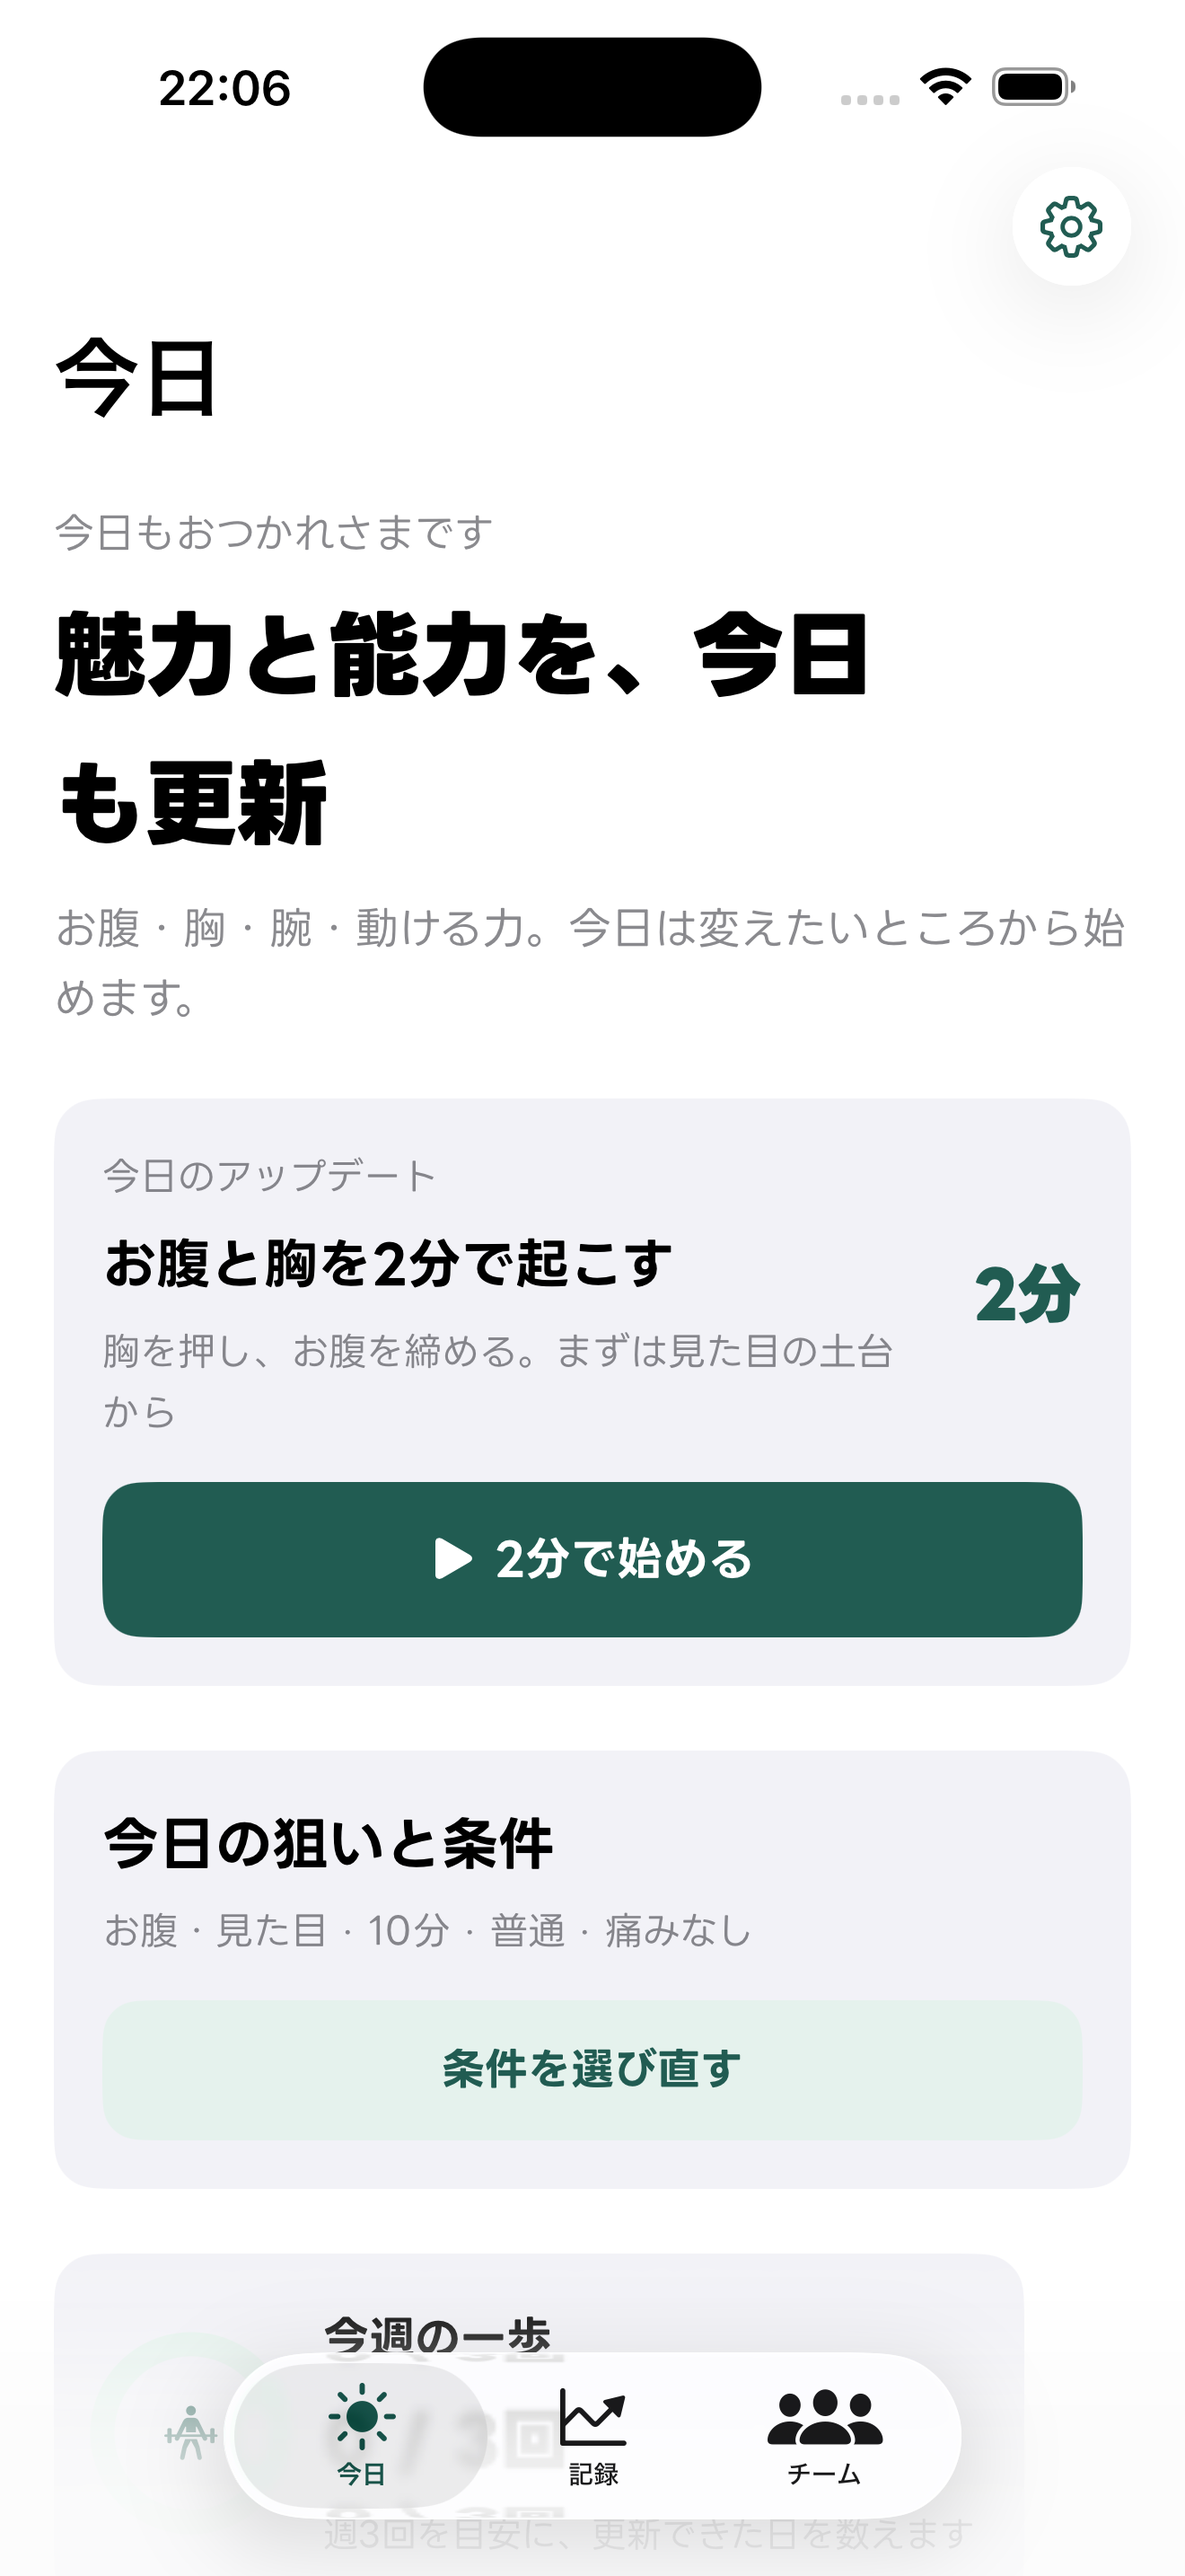
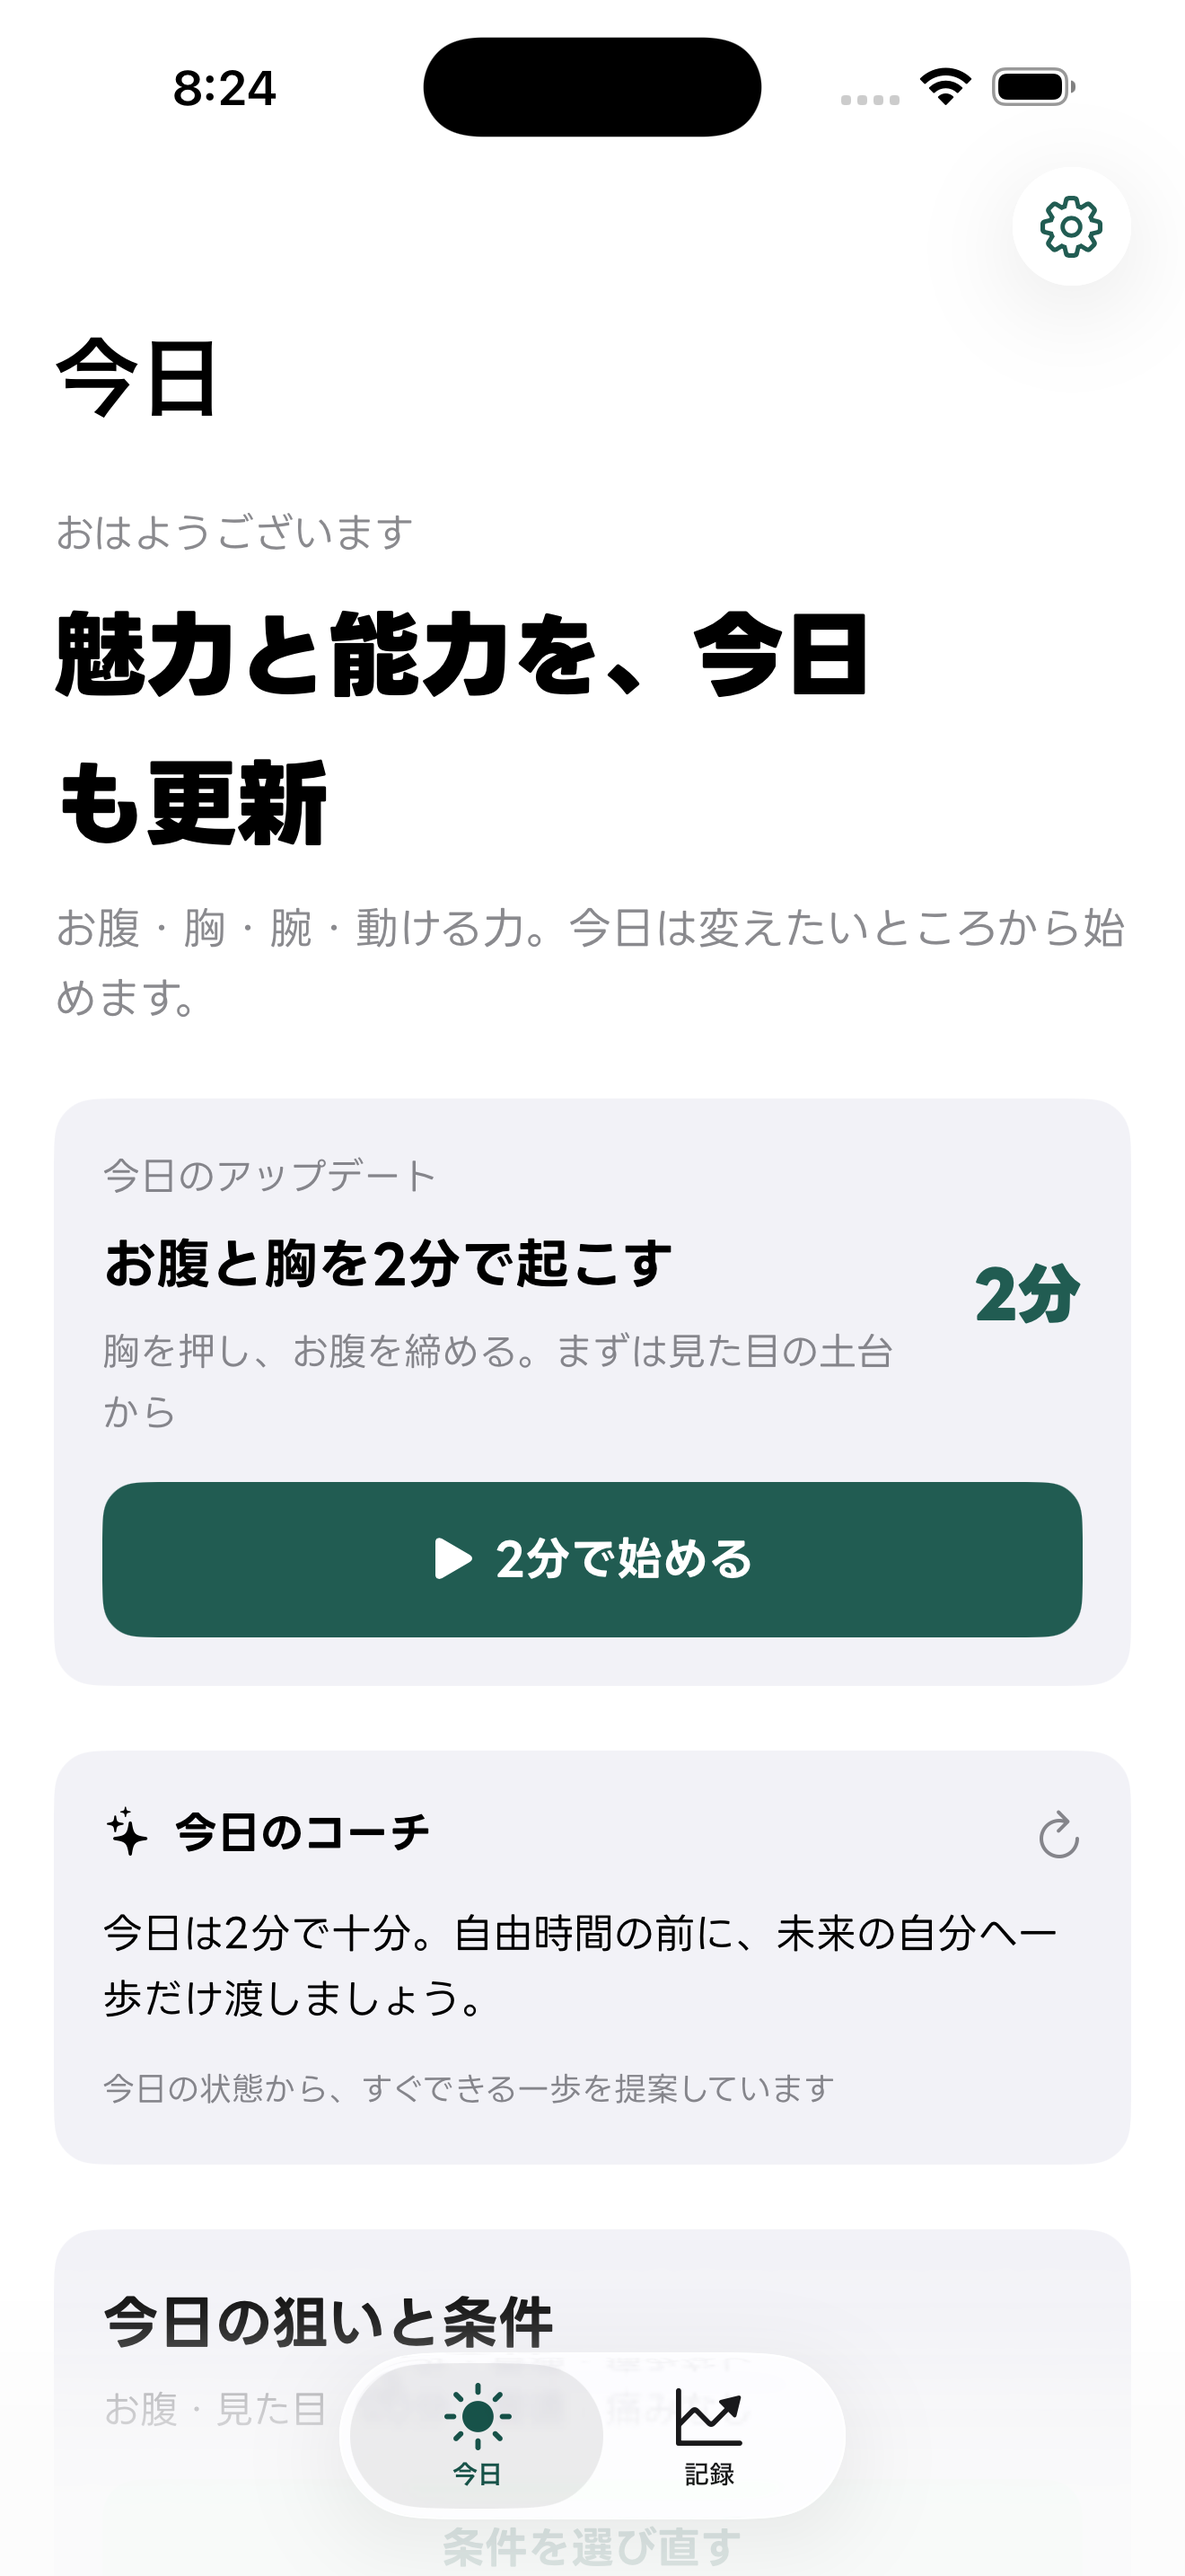
Prepare App Store release candidate

diff --git a/FutureBody/Views/RootView.swift b/FutureBody/Views/RootView.swift
@@ -17,12 +17,6 @@ struct RootView: View {
                 Label("記録", systemImage: "chart.line.uptrend.xyaxis")
             }
 
-            NavigationStack {
-                TeamView()
-            }
-            .tabItem {
-                Label("チーム", systemImage: "person.3")
-            }
         }
     }
 }

diff --git a/Scripts/generate_project.rb b/Scripts/generate_project.rb
@@ -42,7 +42,7 @@ target.build_configurations.each do |configuration|
   configuration.build_settings["OTHER_LDFLAGS"] = "$(inherited) -ObjC"
   configuration.build_settings["CODE_SIGN_STYLE"] = "Automatic"
   configuration.build_settings["DEVELOPMENT_TEAM"] = "W7WQFW7K74"
-  configuration.build_settings["CURRENT_PROJECT_VERSION"] = "8"
+  configuration.build_settings["CURRENT_PROJECT_VERSION"] = "9"
   configuration.build_settings["MARKETING_VERSION"] = "1.0.0"
   configuration.build_settings["ASSETCATALOG_COMPILER_APPICON_NAME"] = "AppIcon"
 end

diff --git a/docs/RELEASE_CHECKLIST.md b/docs/RELEASE_CHECKLIST.md
@@ -2,8 +2,9 @@
 
 ## 現在の状態
 
-- App Store Connectへの提出候補Build 8：Firebase復元とiPhone内AIコーチ導線を含む
-- Build 8のApp Store Connect処理状態：これからアップロード
+- App Store Connectへアップロード済みのBuild 8：Firebase復元とiPhone内AIコーチ導線を含む
+- App Store Connectへアップロード済みのBuild 9：未使用の仲間タブを初回リリースから外し、削除ルールを補強した提出候補
+- Build 9のApp Store Connect処理状態：アップロード成功。App Store Connectで処理完了後にTestFlight確認と審査提出を行う
 
 ## 完了済み
 
@@ -15,9 +16,10 @@
 - Privacy Manifestの追加（匿名アカウントに紐づく同期データを正確に申告）
 - アプリ内のアカウント・データ削除
 - 痛みがある場合の休止導線と安全上の注意
-- 8件のユニットテスト
+- 10件のユニットテスト
 - OUR ENGINEERING（W7WQFW7K74）向けStore署名とアップロード
 - App Store掲載文案と審査メモ
+- 実際のアプリ画面から作成した6.3インチ・6.9インチ用スクリーンショット
 - GitHub公開リポジトリの秘密情報スキャン
 
 ## App Store Connectで必要な作業
@@ -26,7 +28,7 @@
 2. `app.futurebody.mobile`のTeamがOUR ENGINEERINGになっていることを確認する（完了）
 3. App Store Connectで、アプリ名、説明、キーワード、カテゴリ、年齢レーティング、プライバシー回答、スクリーンショットを登録する
 4. App Informationで、規制対象医療機器を「いいえ」と回答し、DSAの質問が表示された場合は運営者情報に基づいて回答する
-5. Build 8の処理が完了したら、輸出コンプライアンスを確認してTestFlightで内部テストを行う
+5. Build 9の処理完了後、輸出コンプライアンスを確認してTestFlightで内部テストを行う
 6. 審査情報を入力し、「Add for Review」→「Submit for Review」を実行する
 
 ## IPA作成とアップロード

diff --git a/docs/APP_STORE_SUBMISSION.md b/docs/APP_STORE_SUBMISSION.md
@@ -7,7 +7,7 @@
 - Bundle ID：`app.futurebody.mobile`
 - App ID：`6802005144`
 - Team：OUR ENGINEERING（`W7WQFW7K74`）
-- 提出候補：1.0.0（Build 8）
+- 提出候補：1.0.0（Build 9）
 - 主カテゴリ：ヘルスケア／フィットネス
 - 年齢レーティング：App Store Connectの質問票で該当なしを回答（4+想定、Made for Kidsではない）
 - 輸出コンプライアンス：追加の暗号化なし（`ITSAppUsesNonExemptEncryption = false`）
@@ -51,7 +51,7 @@
 
 ## 提出前の操作
 
-1. Build 8の処理が完了したことを確認する
+1. Build 9の処理が完了したことを確認する
 2. 上記メタデータ、App Privacy、年齢レーティングを登録する
 3. スクリーンショットを登録する
 4. App Informationで「規制対象医療機器：いいえ」を回答し、DSAの質問が表示された場合は運営者情報に基づいて回答する

diff --git a/FutureBody/README.md b/FutureBody/README.md
@@ -15,7 +15,6 @@
 - 20:50の通知設定
 - 未来シナリオのフォールバック表示
 - 記録画面
-- 仲間機能の導線
 - Firebase Authentication / Firestoreへの匿名同期
 - iPhone内のAIコーチ（Apple Foundation Models、利用できない端末は安全なローカル提案）
 
